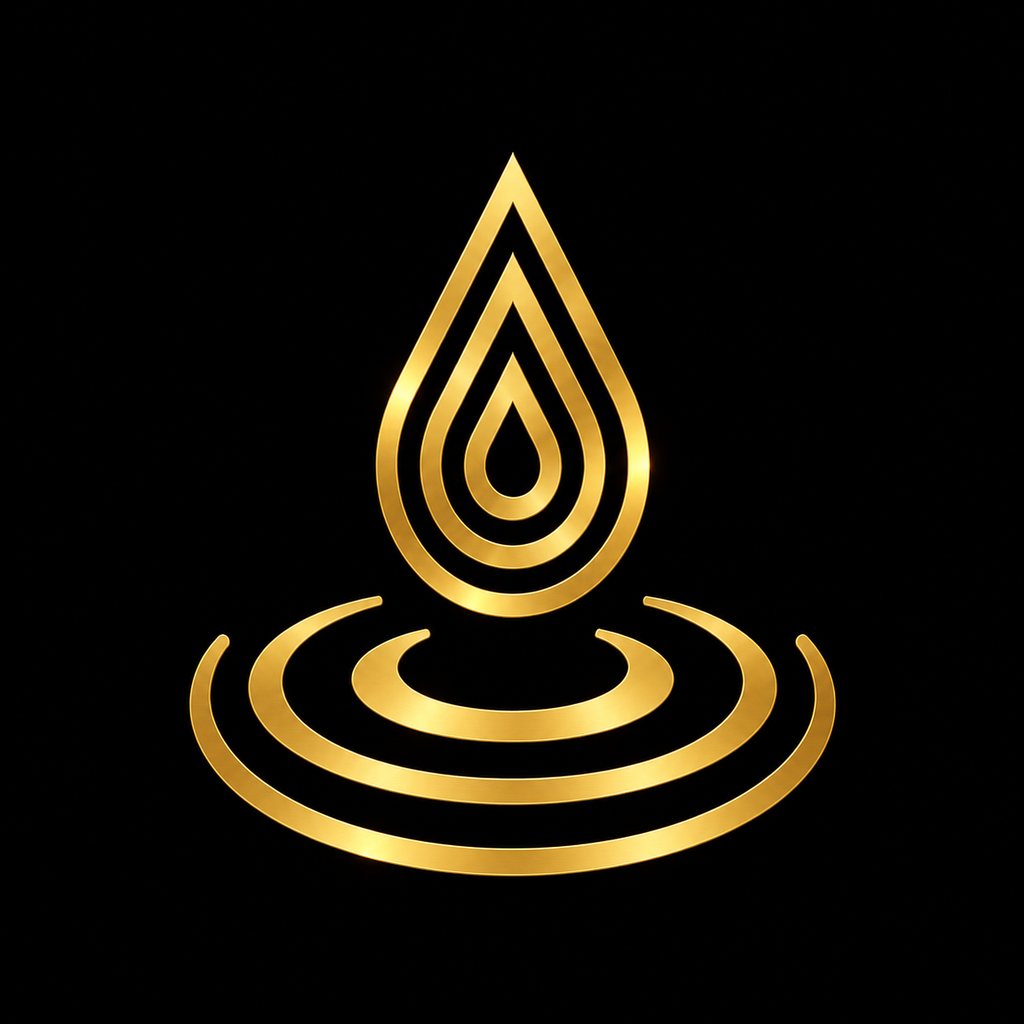
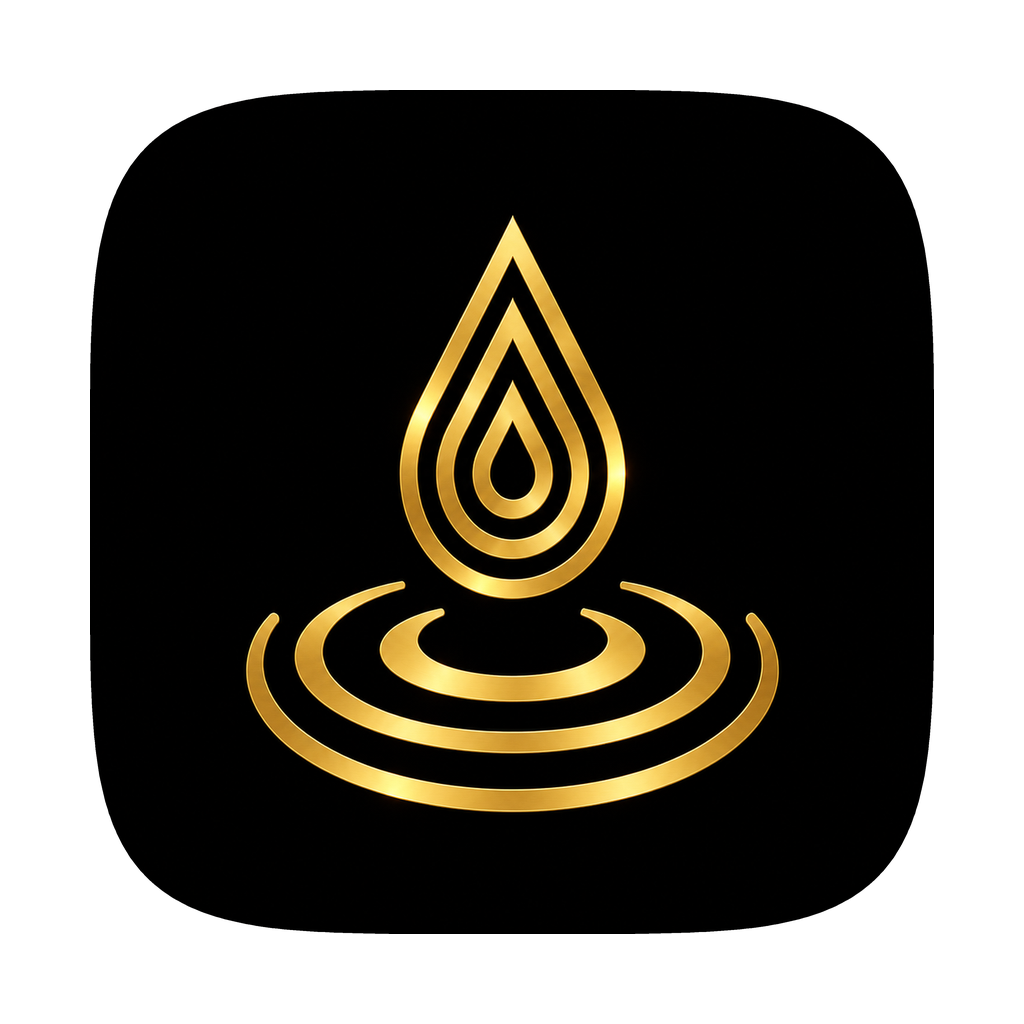
图标母版换为黑金版,停用紫底合成来源
根因:图标.png 是构建时由 图标.jpg + 状态栏图标.png 自动合成的产物,
每次构建都会覆盖手工替换的母版,导致金图标反复被复原成紫色。
现将 图标.jpg 改名归档停用合成分支,图标.png 直接作为母版(黑金版)。
前端 logo 引用加 ?v=gold 破 WebView 缓存。旧紫版全部改名保留未删。

diff --git a/mobile/src/index.html b/mobile/src/index.html
@@ -9,7 +9,7 @@
     <meta name="theme-color" content="#eef1f5">
     <meta name="apple-mobile-web-app-capable" content="yes">
     <meta name="apple-mobile-web-app-status-bar-style" content="default">
-    <link rel="apple-touch-icon" href="/icon.png">
+    <link rel="apple-touch-icon" href="/icon.png?v=gold">
     <link rel="stylesheet" href="/vendor/photoswipe/photoswipe.css">
     <link rel="stylesheet" href="/vendor/plyr/plyr.css">
     <link rel="stylesheet" href="/style.css">
@@ -19,7 +19,7 @@
         <!-- 顶部标题栏 -->
         <header id="header">
             <div class="header-title-group">
-                <h1><img class="header-icon" src="/icon.png" alt="" width="28" height="28">VibeDrop</h1>
+                <h1><img class="header-icon" src="/icon.png?v=gold" alt="" width="28" height="28">VibeDrop</h1>
             </div>
             <button id="nav-settings-btn" class="icon-btn settings-btn" title="设置">设置</button>
         </header>
